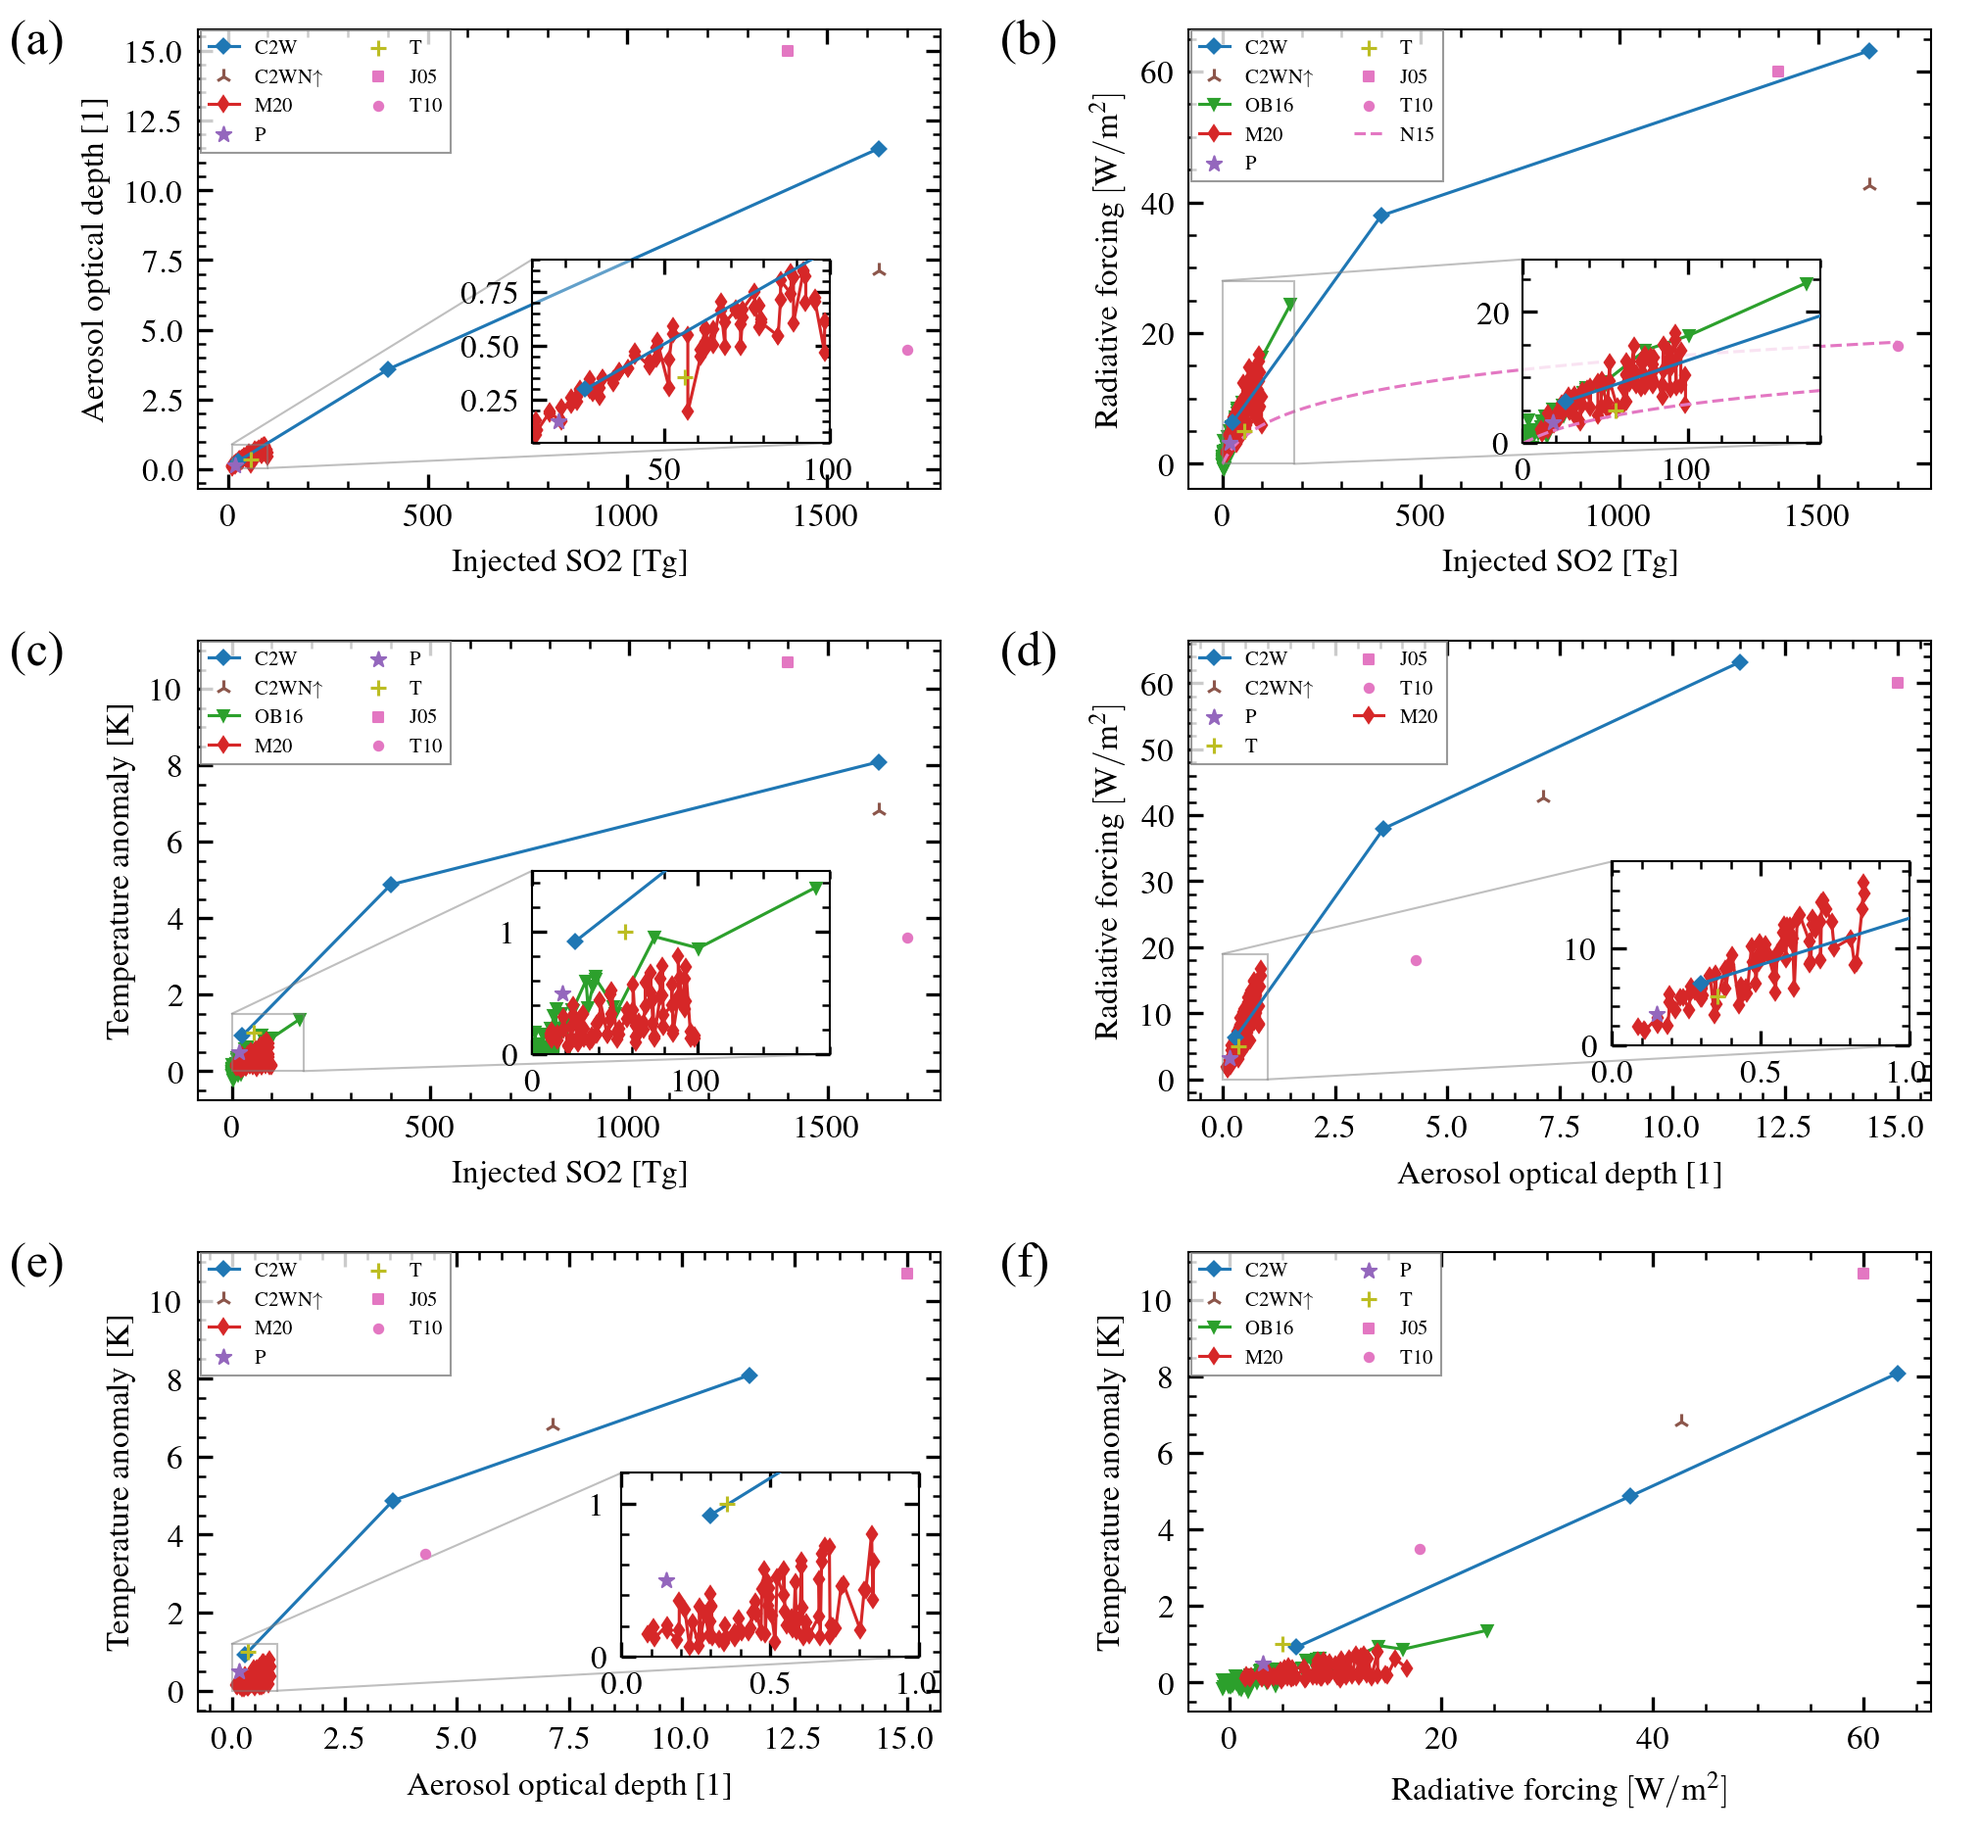
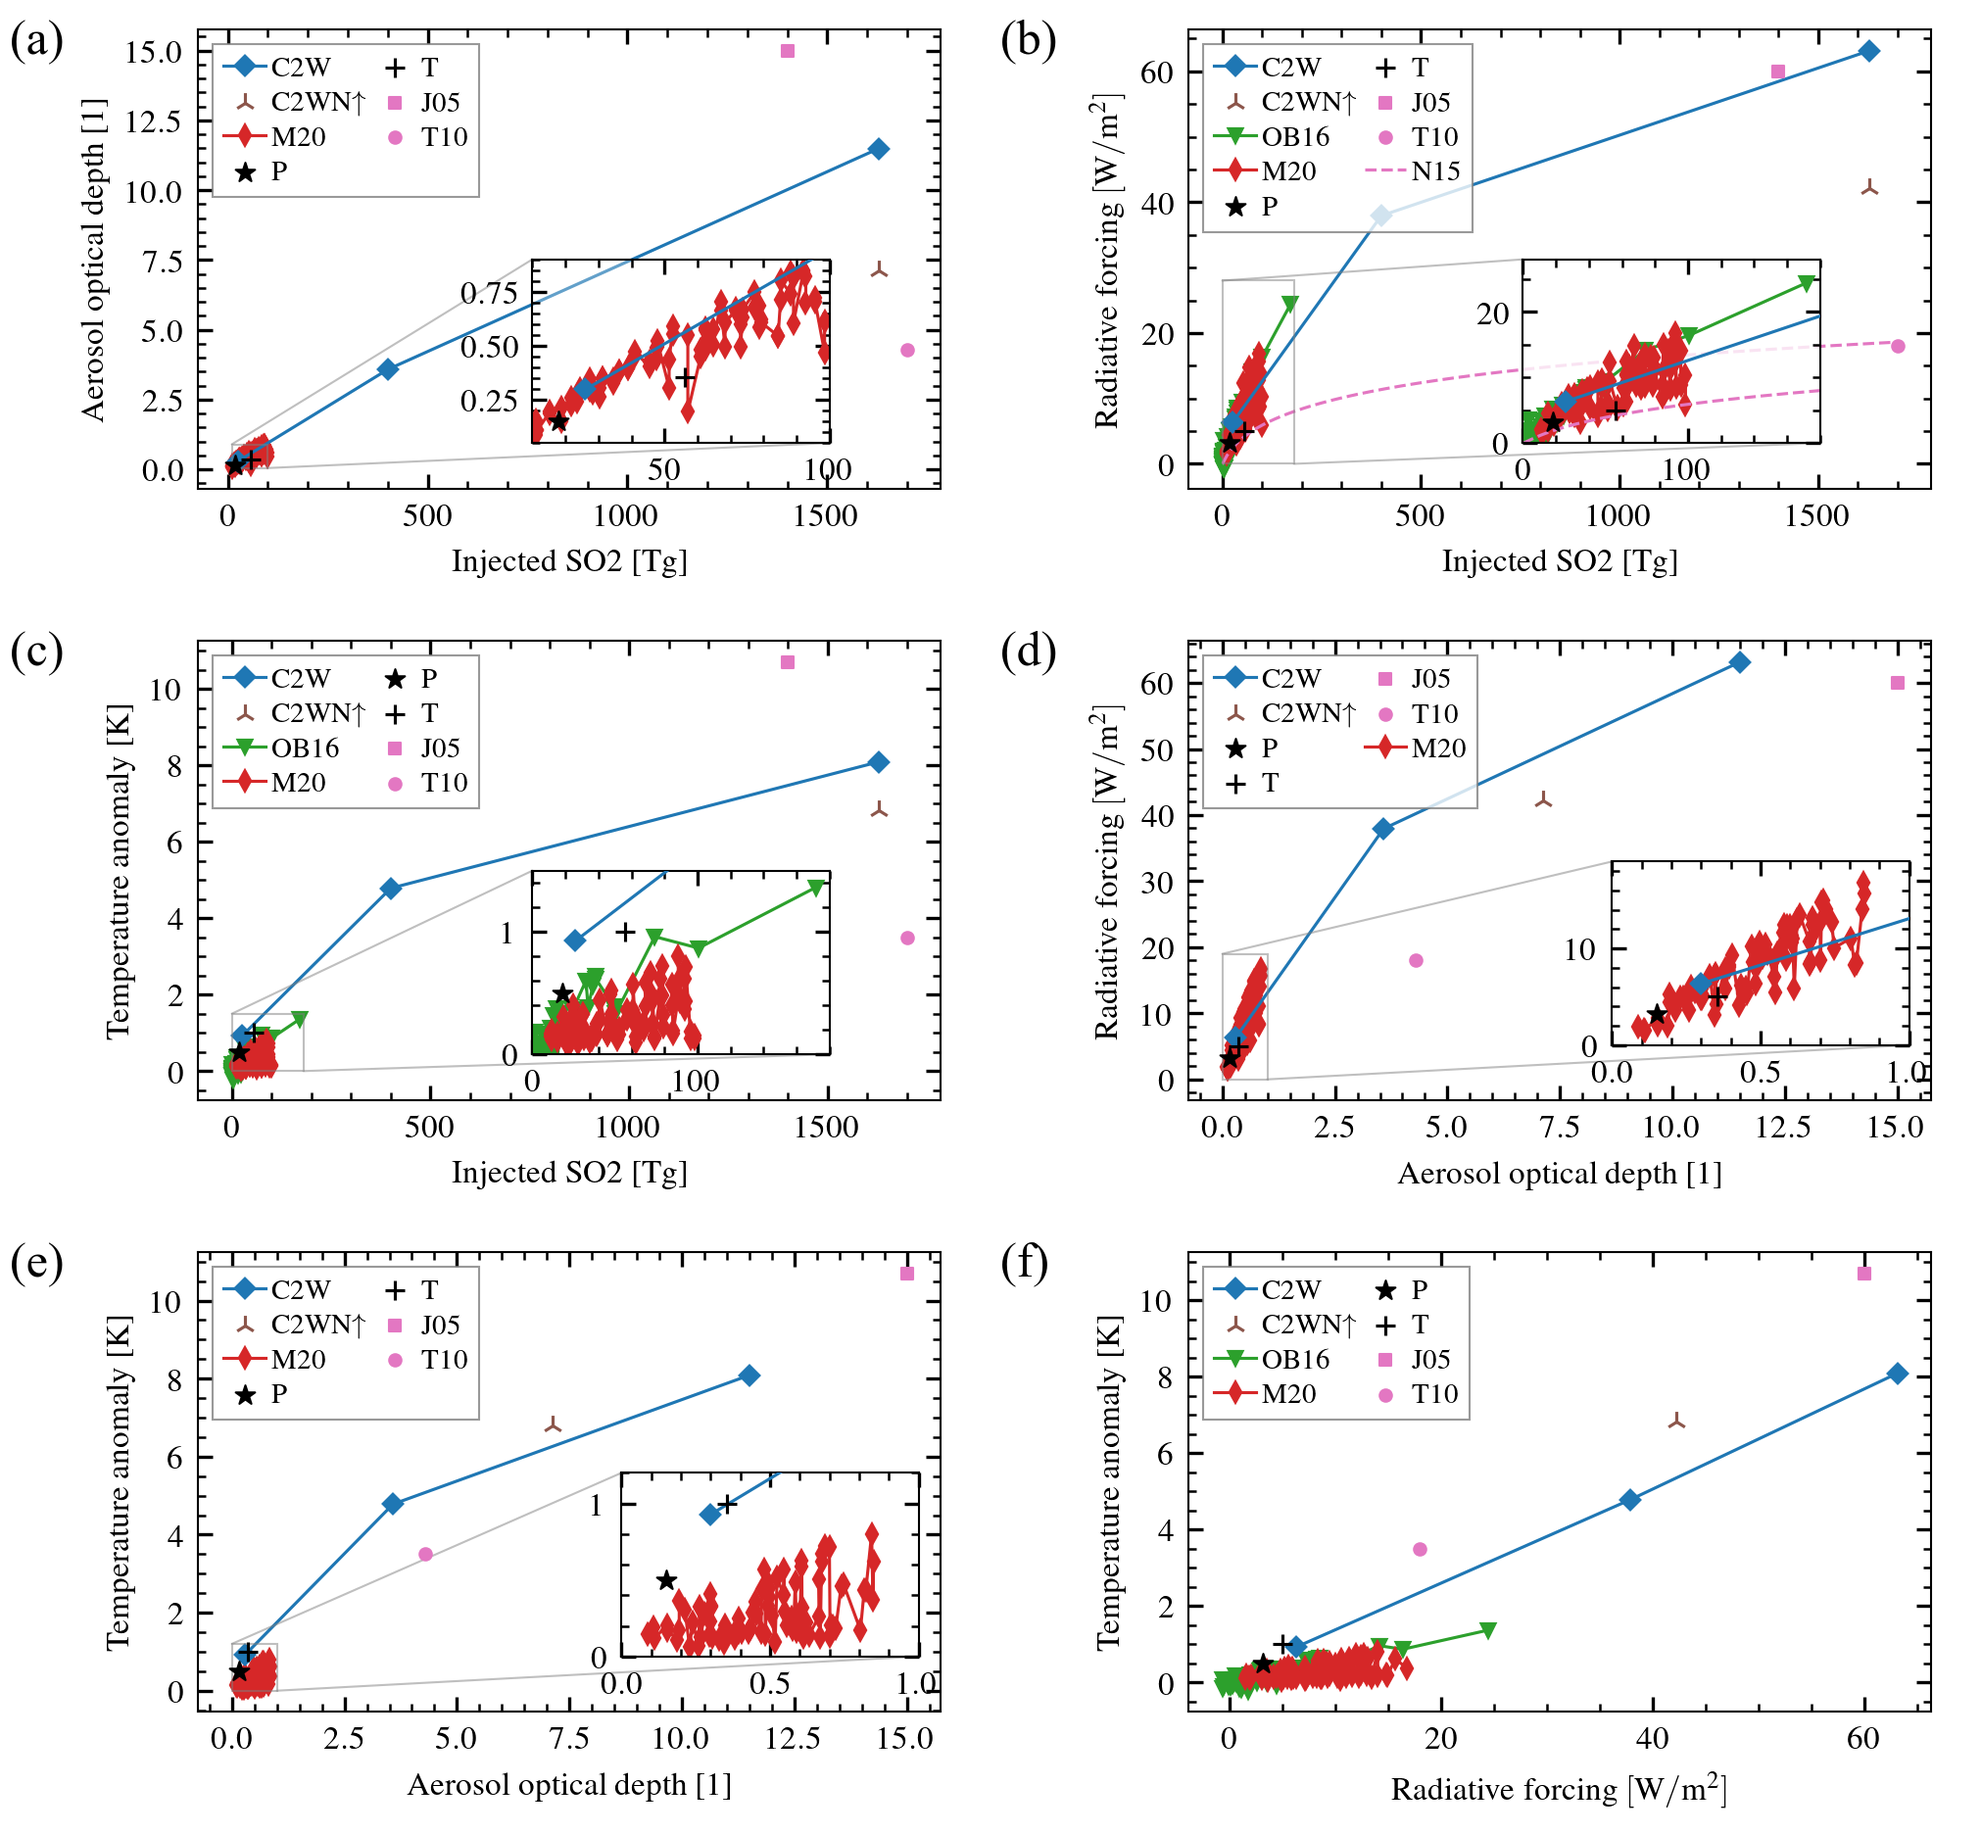
chore(figure): improve contrast and increase size

diff --git a/templateV6.1.tex b/templateV6.1.tex
@@ -58,7 +58,7 @@
 
 %% May use \\ to break lines in title:
 
-\title{Radiative forcing on super-volcano eruptions}
+\title{Radiative forcing by super-volcano eruptions}
 
 %% Enter authors' names and affiliations as you see in the examples below.
 %
@@ -538,10 +538,10 @@ triangles, and the large northern hemisphere eruption case (\gls{c2wsn}) as brow
 pointing three-branched twigs. Also shown are the data from \citet[][Fig.\ 4, black
   crosses from HadCM3 sstPiHistVol]{gregory2016} as grey crosses labelled \gls{g16}
 (described in Appendix B, section~\ref{ap:g16}). Additionally, the estimated peak values
-from the Mt.\ Pinatubo and Mt.\ Tambora eruptions are plotted as a purple star and a
-yellow plus, while the peak from the \citet{jones2005} simulation is shown as a pink
-square labelled \gls{j05}. Finally, red circles represent the peak values obtained from
-the \gls{c2w} tropical eruption cases. The gradient lines are the same as shown by
+from the Mt.\ Pinatubo and Mt.\ Tambora eruptions are plotted as a black star and plus,
+while the peak from the \citet{jones2005} simulation is shown as a pink square labelled
+\gls{j05}. Finally, red circles represent the peak values obtained from the \gls{c2w}
+tropical eruption cases. The gradient lines are the same as shown by
 \citet{gregory2016}. The full data range is shown in Fig.~\ref{fig:aod_vs_toa_ses_avg}a
 while Fig.~\ref{fig:aod_vs_toa_ses_avg}b highlights a narrow range, focusing on the
 \gls{c2wm} case.
@@ -564,7 +564,7 @@ to a straight line.
     simulations listed in table~\ref{tab:simulation-overview} (\gls{c2wm}, \gls{c2wmp},
     \gls{c2ws} and \gls{c2wsn}) are shown along with the data from the HadCM3 sstPiHistVol
     simulation by \citet{gregory2016} (grey crosses). Also shown are the estimated peak
-    values of the Mt.\ Pinatubo (purple star) and Mt.\ Tambora (yellow plus) eruptions. In
+    values of the Mt.\ Pinatubo (black star) and Mt.\ Tambora (black plus) eruptions. In
     (a) the simulated super-volcano of \citet{jones2005} (pink square) is shown, as well as
     the peak values from the simulations \gls{c2wm}, \gls{c2wmp} and \gls{c2ws} (red
     circles). All peak values (as opposed to annual means) have an asterisk (\(\ast{}\)) in
@@ -713,7 +713,7 @@ atmosphere (\gls{cam5}) produce \glspl{rf} comparable to our findings.
     \gls{c2wmp}, \gls{c2ws}), the brown three-branched twig signifies the \gls{c2wsn} case,
     and green downward triangles denote \gls{ob16} data from \citet{ottobliesner2016}. The
     red thin diamonds labelled \gls{m20} display the \citet{marshall2020dataset} data.
-    Purple star and yellow plus indicate Mt.\ Pinatubo and Mt.\ Tambora estimates based on
+    Black star and plus indicate Mt.\ Pinatubo and Mt.\ Tambora estimates based on
     observations. The pink square labelled \gls{j05} refers to the one-hundred times Mt.\
     Pinatubo super-volcano from \citet{jones2005}, and the pink disk labelled \gls{t10}
     represents the \gls{ytt} super-volcano from \citet{timmreck2010}. The pink dashed line
